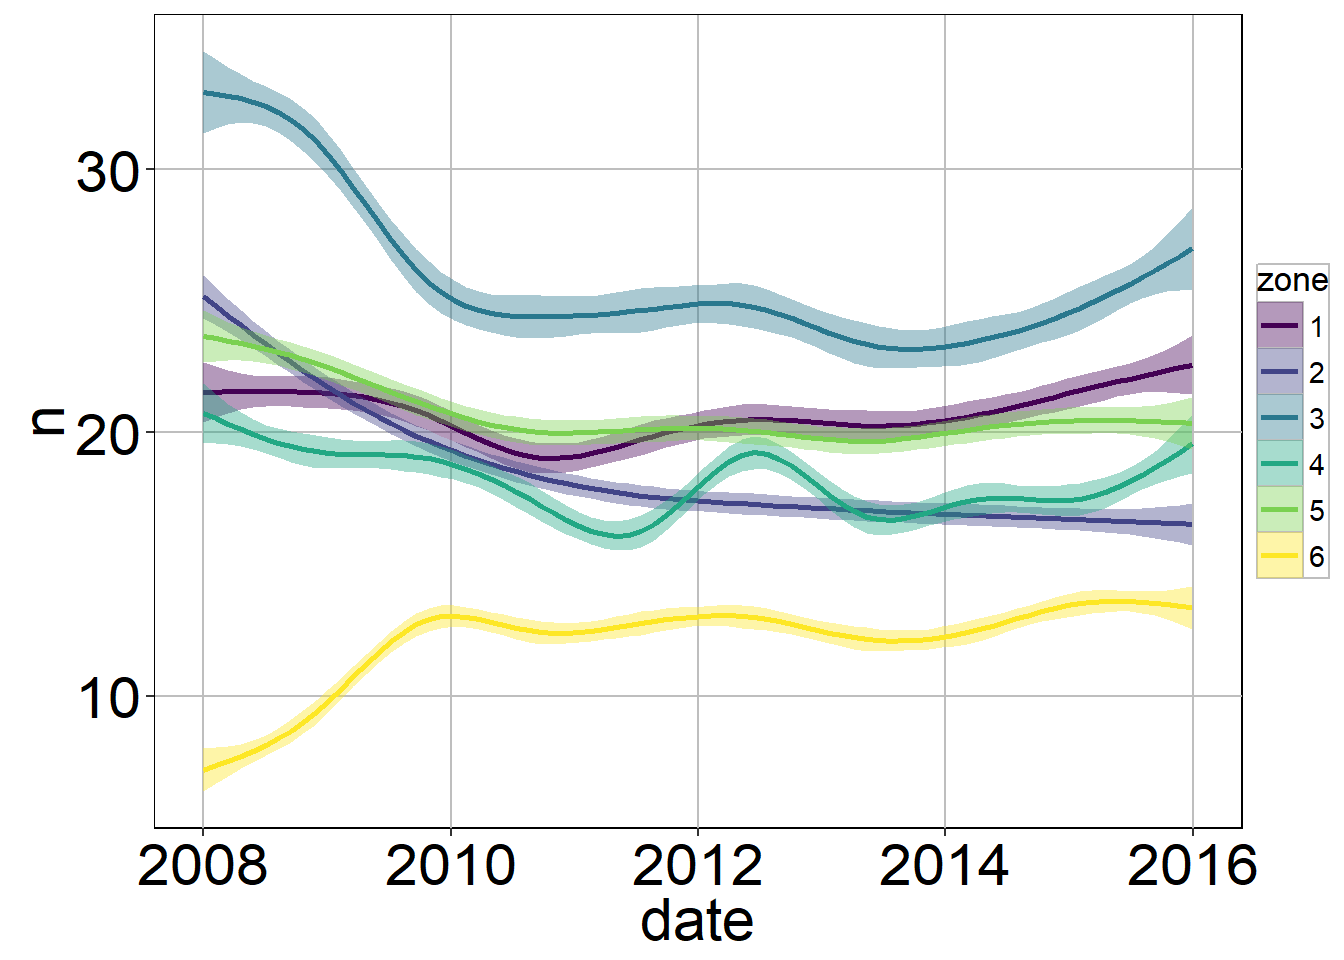
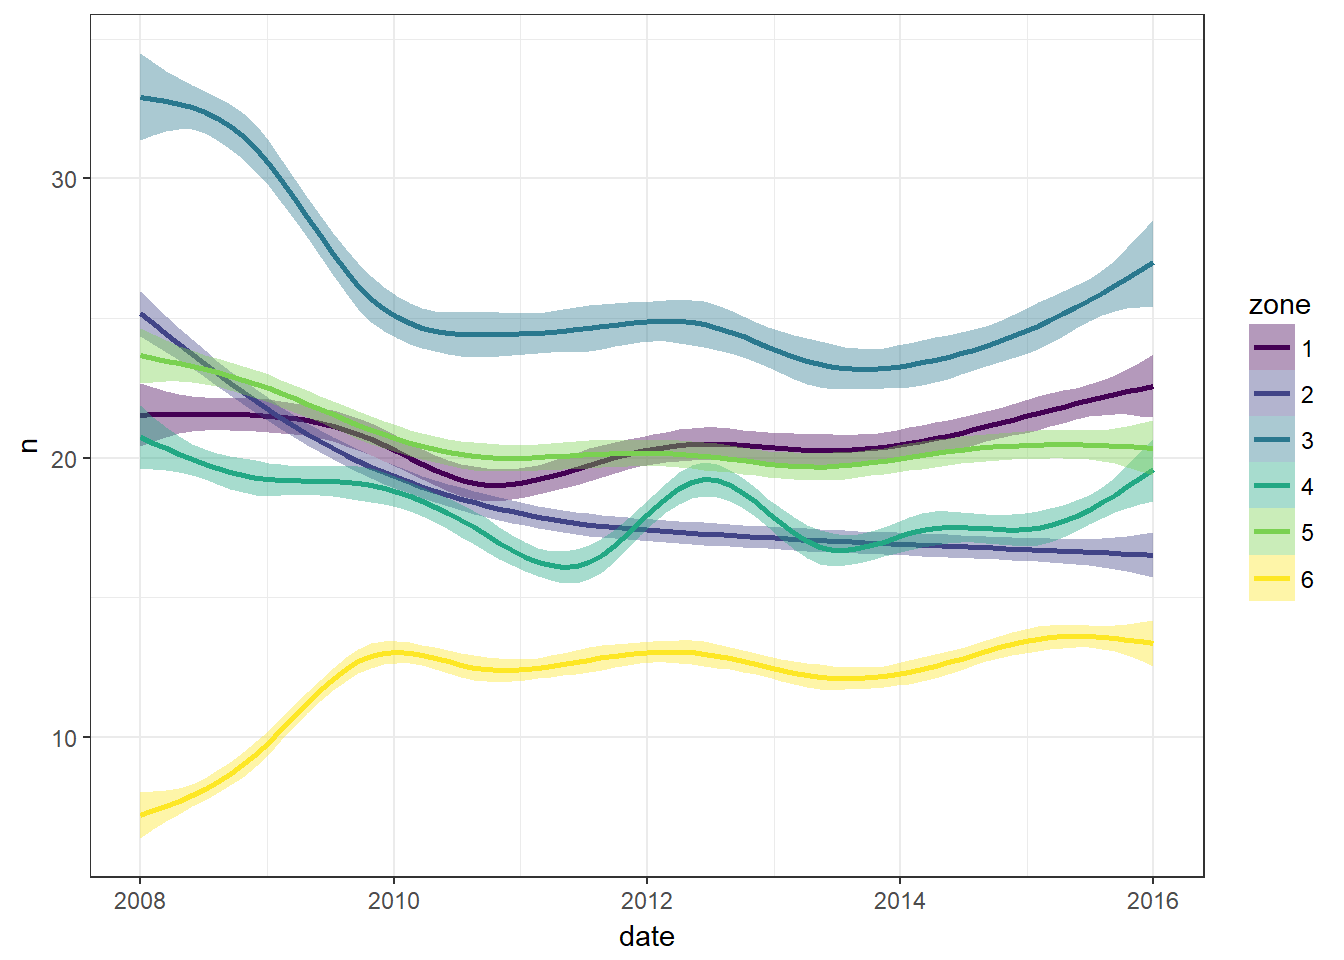
changed markdown settings for crime post

diff --git a/content/post/2017-10-07-pittsburgh-crime-data.html b/content/post/2017-10-07-pittsburgh-crime-data.html
@@ -30,25 +30,10 @@ tags:
 <p>Install these packages using the following code</p>
 <pre class="r"><code>install.packages(c(&quot;tidyverse&quot;, &quot;lubridate&quot;, &quot;viridis&quot;, &quot;ggmap&quot;))</code></pre>
 <p>Then load the packages</p>
-<pre class="r"><code>library(tidyverse)</code></pre>
-<pre><code>## Loading tidyverse: ggplot2
-## Loading tidyverse: tibble
-## Loading tidyverse: tidyr
-## Loading tidyverse: readr
-## Loading tidyverse: purrr
-## Loading tidyverse: dplyr</code></pre>
-<pre><code>## Conflicts with tidy packages ----------------------------------------------</code></pre>
-<pre><code>## filter(): dplyr, stats
-## lag():    dplyr, stats</code></pre>
-<pre class="r"><code>library(lubridate)</code></pre>
-<pre><code>## 
-## Attaching package: &#39;lubridate&#39;</code></pre>
-<pre><code>## The following object is masked from &#39;package:base&#39;:
-## 
-##     date</code></pre>
-<pre class="r"><code>library(viridis)</code></pre>
-<pre><code>## Loading required package: viridisLite</code></pre>
-<pre class="r"><code>library(ggmap)</code></pre>
+<pre class="r"><code>library(tidyverse)
+library(lubridate)
+library(viridis)
+library(ggmap)</code></pre>
 <p>Set your working directory</p>
 <p><a href="http://rprogramming.net/set-working-directory-in-r/" class="uri">http://rprogramming.net/set-working-directory-in-r/</a></p>
 <p>Then, read the data into R</p>
@@ -151,17 +136,7 @@ tags:
 ## 15 NARC/VICE      1
 ## 16  PROPROOM      1</code></pre>
 <p>Before we start making plots, we will load my custom theme</p>
-<pre class="r"><code>source(&quot;https://raw.githubusercontent.com/conorotompkins/AdjGSAA/master/graphs/theme_nhh.R&quot;)
-theme_set(theme_nhh())</code></pre>
-<pre><code>## Warning: `panel.margin` is deprecated. Please use `panel.spacing` property
-## instead</code></pre>
-<pre><code>## Warning: `legend.margin` must be specified using `margin()`. For the old
-## behavior use legend.spacing</code></pre>
-<pre><code>## Warning: New theme missing the following elements: axis.title.x.top,
-## axis.title.y.right, axis.text.x.top, axis.text.y.right, legend.spacing.x,
-## legend.spacing.y, legend.box.margin, legend.box.background,
-## legend.box.spacing, panel.spacing.x, panel.spacing.y, plot.subtitle,
-## plot.caption, strip.placement</code></pre>
+<pre class="r"><code>theme_set(theme_bw())</code></pre>
 <p>How has the number of incidents changed over time?</p>
 <pre class="r"><code>df %&gt;% 
   filter(zone %in% c(1:6)) %&gt;% 
@@ -171,7 +146,6 @@ theme_set(theme_nhh())</code></pre>
   geom_smooth() +
   scale_fill_viridis(discrete = TRUE) +
   scale_color_viridis(discrete = TRUE)</code></pre>
-<pre><code>## `geom_smooth()` using method = &#39;gam&#39;</code></pre>
 <p><img src="/post/2017-10-07-pittsburgh-crime-data_files/figure-html/incidents%20over%20time-1.png" width="672" /></p>
 <p>Looks like there is a data or reporting problem in Zone 6</p>
 <p>Bob Gradeck pointed out that Zone 6 was closed in 2003 and reopened in 2008</p>
@@ -246,24 +220,6 @@ ggplot(data = pot_incidents, aes(x = date, y = n)) +
                maptype = &quot;toner&quot;, 
                source = &quot;stamen&quot;,
                messaging = FALSE)</code></pre>
-<pre><code>## Map from URL : http://maps.googleapis.com/maps/api/staticmap?center=Oakland,+Pittsburgh,+PA&amp;zoom=12&amp;size=640x640&amp;scale=2&amp;maptype=terrain&amp;sensor=false</code></pre>
-<pre><code>## Information from URL : http://maps.googleapis.com/maps/api/geocode/json?address=Oakland,%20Pittsburgh,%20PA&amp;sensor=false</code></pre>
-<pre><code>## Map from URL : http://tile.stamen.com/toner/12/1136/1542.png</code></pre>
-<pre><code>## Map from URL : http://tile.stamen.com/toner/12/1137/1542.png</code></pre>
-<pre><code>## Map from URL : http://tile.stamen.com/toner/12/1138/1542.png</code></pre>
-<pre><code>## Map from URL : http://tile.stamen.com/toner/12/1139/1542.png</code></pre>
-<pre><code>## Map from URL : http://tile.stamen.com/toner/12/1136/1543.png</code></pre>
-<pre><code>## Map from URL : http://tile.stamen.com/toner/12/1137/1543.png</code></pre>
-<pre><code>## Map from URL : http://tile.stamen.com/toner/12/1138/1543.png</code></pre>
-<pre><code>## Map from URL : http://tile.stamen.com/toner/12/1139/1543.png</code></pre>
-<pre><code>## Map from URL : http://tile.stamen.com/toner/12/1136/1544.png</code></pre>
-<pre><code>## Map from URL : http://tile.stamen.com/toner/12/1137/1544.png</code></pre>
-<pre><code>## Map from URL : http://tile.stamen.com/toner/12/1138/1544.png</code></pre>
-<pre><code>## Map from URL : http://tile.stamen.com/toner/12/1139/1544.png</code></pre>
-<pre><code>## Map from URL : http://tile.stamen.com/toner/12/1136/1545.png</code></pre>
-<pre><code>## Map from URL : http://tile.stamen.com/toner/12/1137/1545.png</code></pre>
-<pre><code>## Map from URL : http://tile.stamen.com/toner/12/1138/1545.png</code></pre>
-<pre><code>## Map from URL : http://tile.stamen.com/toner/12/1139/1545.png</code></pre>
 <p>View the map to make sure it looks right</p>
 <pre class="r"><code>ggmap(city_map)</code></pre>
 <p><img src="/post/2017-10-07-pittsburgh-crime-data_files/figure-html/view%20map-1.png" width="672" /></p>
@@ -282,12 +238,7 @@ ggplot(data = pot_incidents, aes(x = date, y = n)) +
          fill = guide_colorbar(&quot;Count of Incidents&quot;)) +
   labs(x = &quot;&quot;,
        y = &quot;&quot;) +
-  theme_nhh() +
   theme(axis.text = element_blank())</code></pre>
-<pre><code>## Warning: `panel.margin` is deprecated. Please use `panel.spacing` property
-## instead</code></pre>
-<pre><code>## Warning: `legend.margin` must be specified using `margin()`. For the old
-## behavior use legend.spacing</code></pre>
 <pre><code>## Warning: Removed 25078 rows containing non-finite values (stat_density2d).</code></pre>
 <p><img src="/post/2017-10-07-pittsburgh-crime-data_files/figure-html/plot%20map-1.png" width="672" /></p>
 </div>
